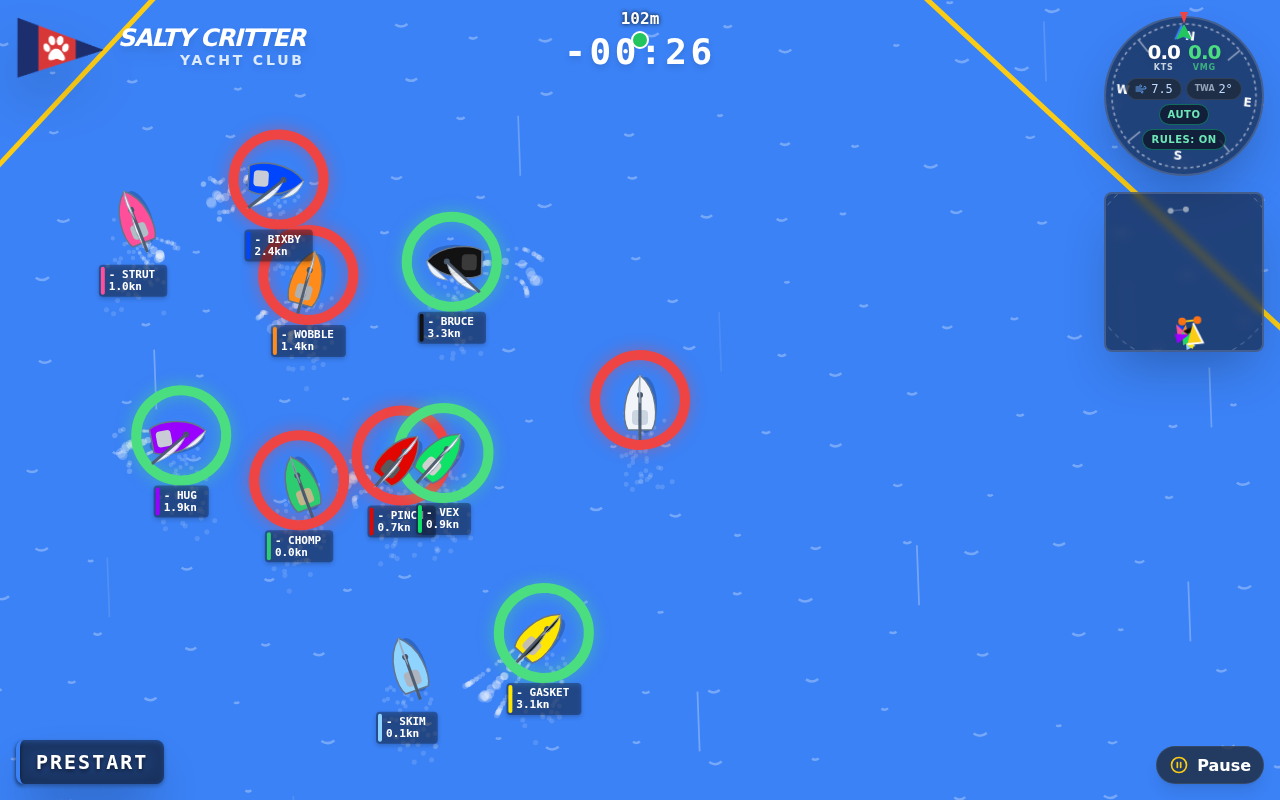
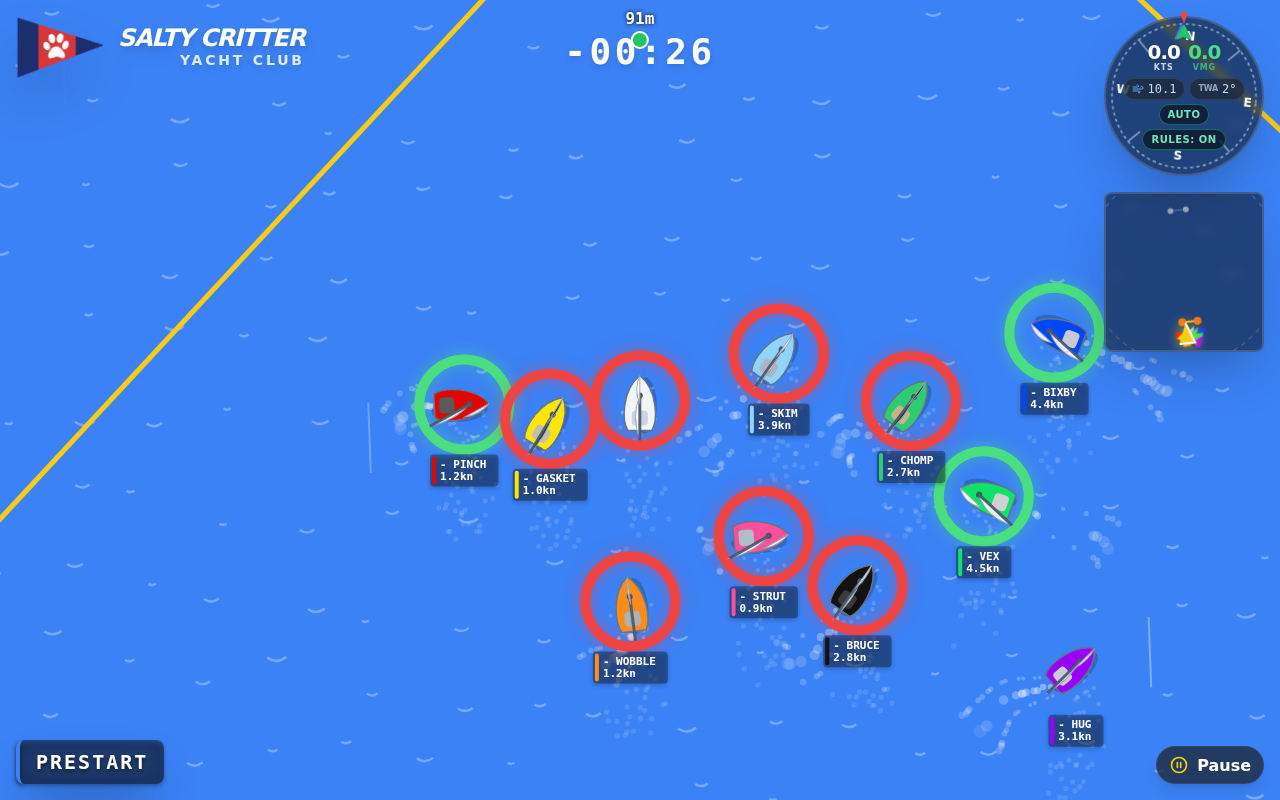
Make player boat glow and stand out on minimap.
- Updated `drawMinimap` in `regatta/script.js` to draw AI boats first.
- Updated `drawMinimap` to draw the player boat last (on top).
- Increased player boat size on minimap by approx 1.5x.
- Added a white stroke outline to the player boat on the minimap.
- Added a pulsing yellow glow animation to the player boat on the minimap using `shadowBlur` modulated by `state.time`.

diff --git a/regatta/script.js b/regatta/script.js
@@ -2396,6 +2396,12 @@ function drawMinimap() {
     if (player) {
         const pos = t(player.x, player.y);
         ctx.save(); ctx.translate(pos.x, pos.y); ctx.rotate(player.heading);
+
+        // Pulse Glow
+        const glow = 10 + Math.sin(state.time * 8) * 5;
+        ctx.shadowBlur = glow;
+        ctx.shadowColor = '#facc15';
+
         ctx.fillStyle = '#facc15';
         ctx.beginPath(); ctx.moveTo(0, -12); ctx.lineTo(8, 9); ctx.lineTo(-8, 9); ctx.fill();
         ctx.lineWidth = 2; ctx.strokeStyle = '#ffffff'; ctx.stroke();
